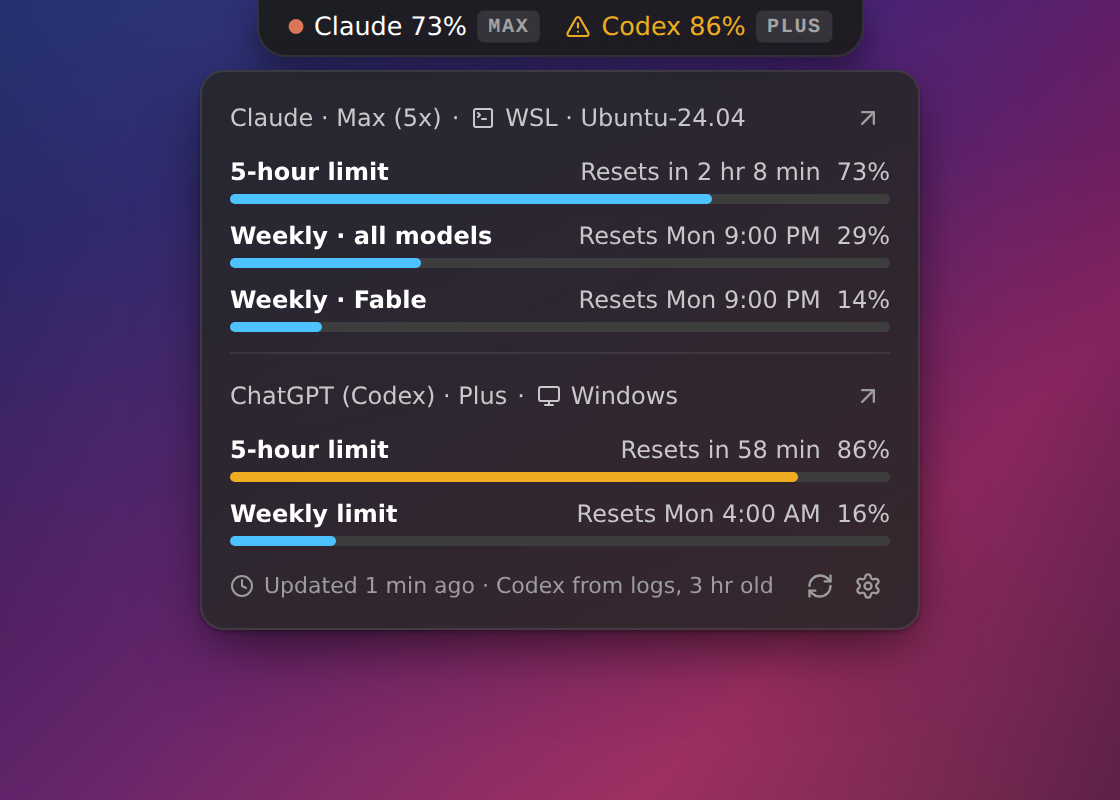
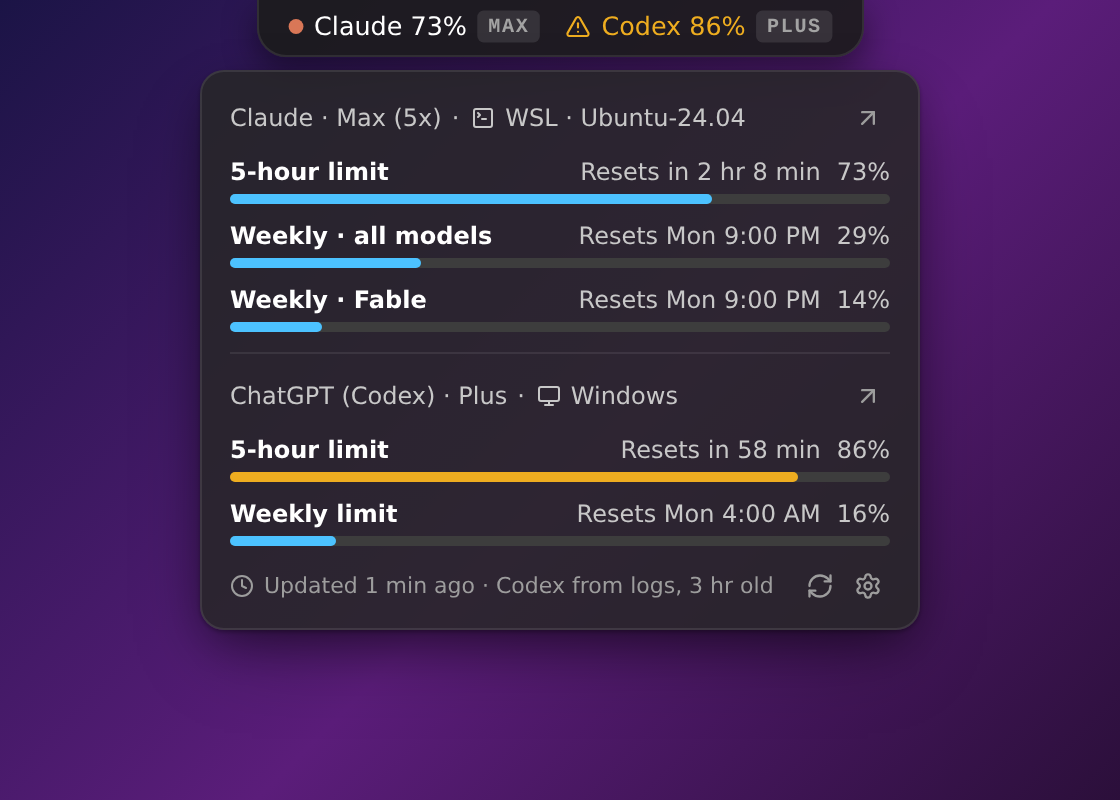
docs: regenerate the screenshots from a committed harness
The settings shot still showed the sidebar before Updates existed, and the
originals were taken from a throwaway harness that no longer exists, so there
was no way to redo them.

scripts/screenshots/ now holds the entry points and sample data, and
`npm run screenshots` bundles them with esbuild and shoots all three images in
a headless Chromium. The harness renders the real IslandApp and SettingsApp, so
it is typechecked with the renderer and cannot silently drift from it.

diff --git a/scripts/screenshots/sample-data.ts b/scripts/screenshots/sample-data.ts
@@ -1,0 +1,57 @@
+// Sample data for the README screenshots. Nothing here comes from a real account.
+import type { IslandView } from '../../src/shared/view-model';
+
+/** Fixed so reset times ("Resets in 2 hr 8 min") render the same on every run. The screenshot
+ * script pins TZ=UTC, so these are the wall-clock times that end up in the shot. */
+export const now = Date.UTC(2026, 8, 15, 17, 0);
+
+const HOUR = 3_600_000;
+const DAY = 86_400_000;
+/** Claude's weekly windows both roll over at the same moment: the coming Monday evening. */
+const claudeWeeklyReset = now + 6 * DAY + 4 * HOUR;
+
+export const view: IslandView = {
+  generatedAt: now,
+  providers: [
+    {
+      id: 'claude',
+      name: 'Claude',
+      shortName: 'Claude',
+      plan: 'Max (5x)',
+      source: { kind: 'wsl', label: 'WSL · Ubuntu-24.04', home: '\\\\wsl.localhost\\Ubuntu-24.04\\home\\you' },
+      status: 'ok',
+      dataAsOf: now - 60_000,
+      fromLogs: false,
+      maxPercent: 73,
+      headlinePercent: 73,
+      level: 'normal',
+      stale: false,
+      limits: [
+        { id: 'five_hour', label: '5-hour limit', usedPercent: 73, resetsAt: now + 2 * HOUR + 8 * 60_000, level: 'normal' },
+        { id: 'seven_day', label: 'Weekly · all models', usedPercent: 29, resetsAt: claudeWeeklyReset, level: 'normal' },
+        { id: 'seven_day_opus', label: 'Weekly · Fable', usedPercent: 14, resetsAt: claudeWeeklyReset, level: 'normal' },
+      ],
+    },
+    {
+      id: 'codex',
+      name: 'ChatGPT (Codex)',
+      shortName: 'Codex',
+      plan: 'Plus',
+      source: { kind: 'windows', label: 'Windows', home: 'C:\\Users\\you' },
+      status: 'ok',
+      dataAsOf: now - 3 * 3_600_000,
+      fromLogs: true,
+      maxPercent: 86,
+      headlinePercent: 86,
+      level: 'warn',
+      stale: false,
+      limits: [
+        { id: 'codex-300m', label: '5-hour limit', usedPercent: 86, resetsAt: now + 58 * 60_000, level: 'warn' },
+        { id: 'codex-10080m', label: 'Weekly limit', usedPercent: 16, resetsAt: now + 5 * DAY + 11 * HOUR, level: 'normal' },
+      ],
+    },
+  ],
+};
+
+/** Windows 11's default blue, so the shots look like a stock Personalization setup. */
+export const accent = { light3: '#99ebff', light2: '#4cc2ff', light1: '#0091f8', base: '#0078d4', dark1: '#0067c0', dark2: '#003e92', dark3: '#001a68' };

diff --git a/scripts/screenshots/settings.tsx b/scripts/screenshots/settings.tsx
@@ -1,0 +1,39 @@
+// Renders the settings window as a floating window over a desktop-like gradient.
+declare const VERSION: string;
+
+import { createRoot } from 'react-dom/client';
+import { applyTheme } from '../../src/renderer/theme';
+import { SettingsApp } from '../../src/renderer/settings/SettingsApp';
+import '../../src/renderer/settings/settings.css';
+import type { Api } from '../../src/shared/ipc';
+import { DEFAULT_SETTINGS } from '../../src/shared/settings-schema';
+import { accent } from './sample-data';
+
+applyTheme(document.documentElement, { mode: 'dark', transparency: true, accent });
+
+let settings = { ...DEFAULT_SETTINGS };
+const noop = () => {};
+const api = {
+  getSettings: async () => settings,
+  setSettings: async (patch: Partial<typeof settings>) => (settings = { ...settings, ...patch }),
+  getProviders: async () => [
+    {
+      id: 'claude',
+      name: 'Claude',
+      sources: [{ kind: 'wsl', label: 'WSL · Ubuntu-24.04', home: '\\\\wsl.localhost\\Ubuntu-24.04\\home\\you', lastModifiedMs: 2 }],
+      activeHome: '\\\\wsl.localhost\\Ubuntu-24.04\\home\\you',
+    },
+    {
+      id: 'codex',
+      name: 'ChatGPT (Codex)',
+      sources: [{ kind: 'windows', label: 'Windows', home: 'C:\\Users\\you', lastModifiedMs: 1 }],
+      activeHome: 'C:\\Users\\you',
+    },
+  ],
+  getDisplays: async () => [{ id: 1, label: 'Primary display', primary: true }],
+  getAppInfo: async () => ({ version: VERSION }),
+  getTheme: async () => ({}),
+  onTheme: () => noop,
+} as unknown as Api;
+
+createRoot(document.getElementById('root')!).render(<SettingsApp api={api} />);

diff --git a/scripts/screenshots/island.tsx b/scripts/screenshots/island.tsx
@@ -1,0 +1,30 @@
+// Renders the island against a desktop-like gradient. ?expanded opens the panel.
+import { createRoot } from 'react-dom/client';
+import { applyTheme } from '../../src/renderer/theme';
+import { IslandApp } from '../../src/renderer/island/IslandApp';
+import '../../src/renderer/island/island.css';
+import type { Api } from '../../src/shared/ipc';
+import { accent, now, view } from './sample-data';
+
+applyTheme(document.documentElement, { mode: 'dark', transparency: true, accent });
+
+const expanded = location.search.includes('expanded');
+const noop = () => {};
+const api = {
+  getView: async () => view,
+  onView: () => noop,
+  // The harness has no main process to expand it, so push the open state in on load.
+  onExpand: (listener: () => void) => {
+    if (expanded) setTimeout(listener, 0);
+    return noop;
+  },
+  onCollapse: () => noop,
+  refresh: async () => {},
+  resizeIsland: noop,
+  setExpanded: noop,
+  setInteractive: noop,
+  openUsagePage: noop,
+  openSettings: noop,
+} as unknown as Api;
+
+createRoot(document.getElementById('root')!).render(<IslandApp api={api} clock={() => now} />);

diff --git a/scripts/screenshots/settings.html b/scripts/screenshots/settings.html
@@ -1,0 +1,25 @@
+<!doctype html>
+<html>
+  <head>
+    <meta charset="utf-8" />
+    <link rel="stylesheet" href="settings.css" />
+    <style>
+      html { height: 100%; background: linear-gradient(135deg, #1b1446, #5b1d7a 55%, #2b0f3a) fixed; }
+      body { display: grid; place-items: center; height: 100vh; margin: 0; background: transparent; }
+      /* Stands in for the Windows window frame the real app gets. */
+      #root {
+        width: 780px;
+        height: 560px;
+        overflow: hidden;
+        border: 1px solid rgb(255 255 255 / 12%);
+        border-radius: 9px;
+        box-shadow: 0 30px 80px rgb(0 0 0 / 55%);
+      }
+      #root .app { height: 100%; }
+    </style>
+  </head>
+  <body>
+    <div id="root"></div>
+    <script src="settings.js"></script>
+  </body>
+</html>

diff --git a/scripts/screenshots/island.html b/scripts/screenshots/island.html
@@ -1,0 +1,16 @@
+<!doctype html>
+<html>
+  <head>
+    <meta charset="utf-8" />
+    <link rel="stylesheet" href="island.css" />
+    <style>
+      html, body { height: 100%; margin: 0; }
+      body { display: flex; justify-content: center; background: linear-gradient(135deg, #1b1446, #5b1d7a 55%, #2b0f3a) fixed; }
+      #root { display: inline-block; }
+    </style>
+  </head>
+  <body>
+    <div id="root"></div>
+    <script src="island.js"></script>
+  </body>
+</html>

diff --git a/README.md b/README.md
@@ -20,13 +20,13 @@ It reads the logins and logs that the Claude Code and Codex CLIs already keep on
   <img src="docs/screenshots/panel.png" alt="Expanded panel with Claude 5-hour, weekly and per-model weekly limits, and Codex 5-hour and weekly limits" width="75%">
 </p>
 
-**Settings.** Providers and their sources, island display, alerts and refresh, following the Windows theme, accent color and Mica.
+**Settings.** Providers and their sources, island display, alerts, refresh and updates, following the Windows theme, accent color and Mica.
 
 <p align="center">
-  <img src="docs/screenshots/settings.png" alt="Settings window with sidebar sections, provider switches and source dropdowns" width="75%">
+  <img src="docs/screenshots/settings.png" alt="Settings window with Providers, Island, Alerts, Refresh and Updates in the sidebar, and provider switches and source dropdowns" width="75%">
 </p>
 
-<p align="center"><sub>Screenshots are rendered with sample data.</sub></p>
+<p align="center"><sub>Screenshots are rendered from the real components with sample data: <code>npm run screenshots</code>.</sub></p>
 
 ## Features
 
@@ -81,7 +81,12 @@ npm run build        # bundle to out/
 npm run dist         # build the Windows NSIS installer into dist/
 npm run icons        # regenerate build/icon.ico and resources/tray.ico
 npm run check:sources # print what each provider resolves to on this machine
+npm run screenshots  # re-render docs/screenshots/*.png from the components
 ```
+
+`screenshots` renders `scripts/screenshots/` (the real island and settings components, fed sample
+data) in a headless Chromium and writes the three README images. It uses Playwright's cached browser
+if there is one; otherwise set `CHROME` to a Chromium or Chrome binary.
 
 `check:sources` lists every detected source with the data it yields (status, plan, age, limits). Run it
 before a release, or whenever a number looks wrong: it catches provider format drift directly, instead of
@@ -110,6 +115,9 @@ If `node -v` on Windows prints a version below 22.12, call a newer Node explicit
 ```
 build/
   installer.nsh    custom NSIS hooks (restores a missing Start Menu shortcut on update)
+scripts/
+  check-sources.ts what each provider resolves to on this machine
+  screenshots/     README screenshots, rendered from the real components
 src/
   main/            Electron main process
     providers/     provider plugins (claude/, codex/) behind a common interface
